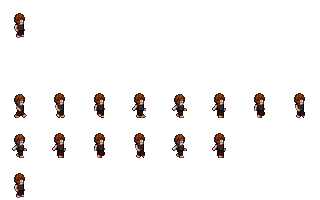
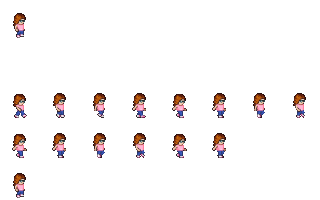
Restyle Zoe as an ordinary nine-year-old
- LPC child rebuilt: shoulder-length wavy brown hair, glasses, pink
  tee and blue jeans instead of the black shirt, ragged maroon skirt,
  earrings and bushy braids
- The generator has no child shoes, so her bare feet are recoloured
  into white trainers with pink trim
- Hero description and LPC part credits updated

Claude-Session: https://claude.ai/code/session_01PMVu6fudvx91nmgD8yVYSR

diff --git a/game/game.js b/game/game.js
@@ -1621,7 +1621,7 @@ const HEROES = [
     tag: 'Holy bruiser', desc: 'A regular bald, bearded bloke in a T-shirt and jeans. His Blessed Hammers spiral out and grind down crowds. Tough, a bit slow.',
     weapon: 'hammer', mods: () => { player.maxHp += 25; player.hp += 25; player.armor += 1; player.speed *= 0.94; } },
   { id: 'zoe', name: 'Zoe', sprite: 'zoe', color: '#FF49B6',
-    tag: 'Sushi bomber', desc: 'Ten years old, glasses, pigtails and a punk attitude. Lobs exploding sushi. Small, quick and fragile.',
+    tag: 'Sushi bomber', desc: 'Nine years old, glasses, pink tee and trainers. Lobs exploding sushi. Small, quick and fragile.',
     weapon: 'sushi', mods: () => { player.speed *= 1.1; player.magnetR *= 1.2; player.maxHp -= 20; player.hp -= 20; } },
 ];
 // Read each hero's real stats by running their mods on a scratch copy of the

diff --git a/game/assets/CREDITS-LPC.md b/game/assets/CREDITS-LPC.md
@@ -139,6 +139,9 @@ tools/hammer/male/walk.png
 
 ## Zoe
 
+Child body, human child head, Child Wavy hair, glasses, child shirt (pink) and child pants (blue); the bare
+feet were recoloured into sneakers.
+
 ```
 body/bodies/child/walk.png
 	- Licenses:
@@ -177,53 +180,16 @@ head/heads/human/child/walk.png
 		- https://opengameart.org/content/lpc-child-standing-template
 		- https://opengameart.org/content/lpc-character-bases
 
-hair/parted_side_bangs/child/walk.png
+facial/glasses/glasses/child/walk/black.png
 	- Licenses:
-		- OGA-BY 3.0+
-		- CC-BY 3.0+
-		- CC-BY-SA 3.0
-		- GPL 3.0
+		- OGA-BY 3.0
 	- Authors:
-		- JaidynReiman
+		- ElizaWy
 	- Links:
-		- https://opengameart.org/content/lpc-1-hairstyle-2-hair-extensions-3-previously-unofficially-released-hairstyles
-		- https://github.com/jrconway3/Universal-LPC-spritesheet/commit/46ddcf05a0e43e7aa6ffd47d350eef0eb529ac24
+		- https://github.com/ElizaWy/LPC/tree/main/Characters/Head%20Accessories
+		- https://opengameart.org/content/lpc-expanded-sit-run-jump-more
 
-hair/extensions/bangs/braidl/child/walk.png
-	- Licenses:
-		- OGA-BY 3.0+
-		- CC-BY 3.0+
-		- CC-BY-SA 3.0
-		- GPL 3.0
-	- Authors:
-		- JaidynReiman
-	- Links:
-		- https://opengameart.org/content/lpc-1-hairstyle-2-hair-extensions-3-previously-unofficially-released-hairstyles
-
-hair/extensions/bangs/braidr/child/walk.png
-	- Licenses:
-		- OGA-BY 3.0+
-		- CC-BY 3.0+
-		- CC-BY-SA 3.0
-		- GPL 3.0
-	- Authors:
-		- JaidynReiman
-	- Links:
-		- https://opengameart.org/content/lpc-1-hairstyle-2-hair-extensions-3-previously-unofficially-released-hairstyles
-
-facial/glasses/nerd/child/walk/black.png
-	- Note: Original by Pennomi, repositioning and recolors by JaidynReiman.
-	- Licenses:
-		- CC-BY-SA 3.0
-		- GPL 3.0
-	- Authors:
-		- JaidynReiman
-		- Thane Brimhall (pennomi)
-		- laetissima
-	- Links:
-		- https://opengameart.org/content/lpc-base-character-expressions
-
-torso/clothes/shirt/child/walk/black.png
+torso/clothes/shirt/child/walk/pink.png
 	- Licenses:
 		- OGA-BY 3.0
 		- CC-BY-SA 3.0
@@ -233,7 +199,7 @@ torso/clothes/shirt/child/walk/black.png
 	- Links:
 		- https://opengameart.org/content/lpc-clothes-for-children
 
-legs/skirts/child/walk/maroon.png
+legs/pants/child/walk/blue.png
 	- Licenses:
 		- OGA-BY 3.0
 		- CC-BY-SA 3.0
@@ -243,22 +209,16 @@ legs/skirts/child/walk/maroon.png
 	- Links:
 		- https://opengameart.org/content/lpc-clothes-for-children
 
-facial/earrings/simple/left/child/walk/silver.png
+hair/wavy/child/walk.png
 	- Licenses:
-		- CC0
+		- OGA-BY 3.0
+		- CC-BY-SA 3.0
+		- GPL 2.0
+		- GPL 3.0
 	- Authors:
-		- bluecarrot16
+		- Nila122
 	- Links:
-		- https://opengameart.org/content/lpc-pirates
-
-facial/earrings/simple/right/child/walk/silver.png
-	- Licenses:
-		- CC0
-	- Authors:
-		- bluecarrot16
-	- Links:
-		- https://opengameart.org/content/lpc-pirates
-
+		- https://opengameart.org/content/3-hairs-for-lpc
 ```
 
 ## The Butcher
